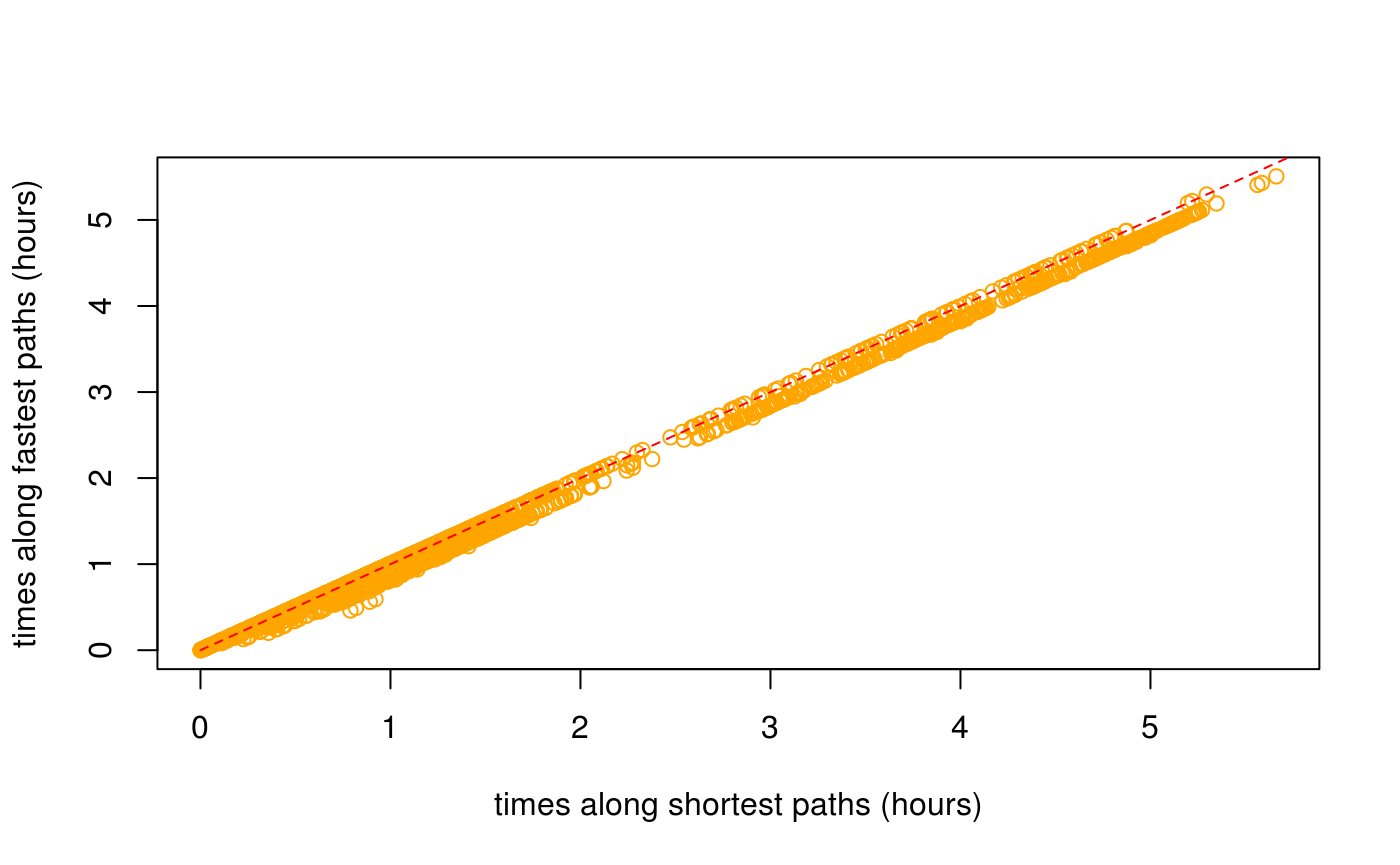
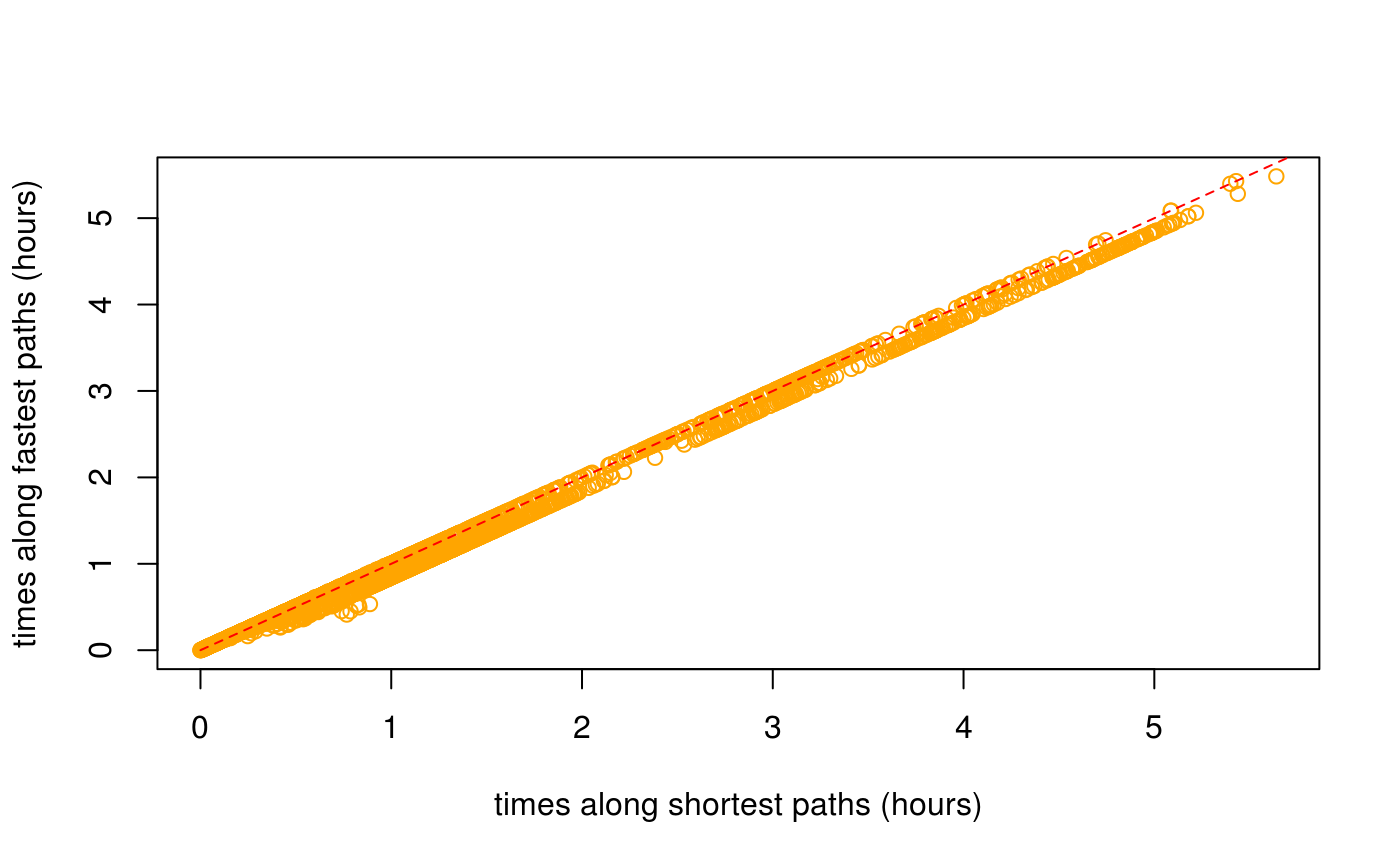
Built site for dodgr: 0.1.4.3@8df6610

diff --git a/articles/dodgr.html b/articles/dodgr.html
@@ -68,7 +68,7 @@
       <h1>dodgr</h1>
                         <h4 class="author">Mark Padgham</h4>
             
-            <h4 class="date">2019-05-25</h4>
+            <h4 class="date">2019-05-26</h4>
       
       <small class="dont-index">Source: <a href="https://github.com/ATFutures/dodgr/blob/master/vignettes/dodgr.Rmd"><code>vignettes/dodgr.Rmd</code></a></small>
       <div class="hidden name"><code>dodgr.Rmd</code></div>
@@ -342,7 +342,7 @@ Figure 2: A <strong>dual</strong>-weighted, directed graph in which the weights 
 <p>The <code>dodgr</code> packages includes a function to select a random connected portion of graph including a specified number of vertices. This function is used in the <code><a href="../reference/compare_heaps.html">compare_heaps()</a></code> function described below, but is also useful for general statistical analyses of large graphs which may otherwise take too long to compute.</p>
 <div class="sourceCode" id="cb59"><pre class="sourceCode r"><code class="sourceCode r"><a class="sourceLine" id="cb59-1" data-line-number="1">graph_sub &lt;-<span class="st"> </span><span class="kw"><a href="../reference/dodgr_sample.html">dodgr_sample</a></span> (graph, <span class="dt">nverts =</span> <span class="dv">100</span>)</a>
 <a class="sourceLine" id="cb59-2" data-line-number="2"><span class="kw"><a href="https://www.rdocumentation.org/packages/base/topics/nrow">nrow</a></span> (graph_sub)</a></code></pre></div>
-<pre><code>## [1] 205</code></pre>
+<pre><code>## [1] 197</code></pre>
 <p>The random sample has around twice as many edges as vertices, in accordance with the statistics calculated above.</p>
 <div class="sourceCode" id="cb61"><pre class="sourceCode r"><code class="sourceCode r"><a class="sourceLine" id="cb61-1" data-line-number="1"><span class="kw"><a href="https://www.rdocumentation.org/packages/base/topics/nrow">nrow</a></span> (<span class="kw"><a href="../reference/dodgr_vertices.html">dodgr_vertices</a></span> (graph_sub))</a></code></pre></div>
 <pre><code>## [1] 100</code></pre>
@@ -419,31 +419,31 @@ Figure 2: A <strong>dual</strong>-weighted, directed graph in which the weights 
 <p>The comparisons are actually made on a randomly selected sub-component of the graph containing a defined number of vertices (with a default of 1,000, or the entire graph if it contains fewer than 1,000 vertices).</p>
 <div class="sourceCode" id="cb77"><pre class="sourceCode r"><code class="sourceCode r"><a class="sourceLine" id="cb77-1" data-line-number="1"><span class="kw"><a href="../reference/compare_heaps.html">compare_heaps</a></span> (graph, <span class="dt">nverts =</span> <span class="dv">100</span>, <span class="dt">replications =</span> <span class="dv">1</span>)</a></code></pre></div>
 <pre><code>##                                                                                   test
-## 6       d &lt;- dodgr_dists(graph_contracted, from = from_id, to = to_id, heap = "BHeap")
-## 7       d &lt;- dodgr_dists(graph_contracted, from = from_id, to = to_id, heap = "FHeap")
 ## 12                  d &lt;- igraph::distances(igr, v = from_id, to = to_id, mode = "out")
-## 1                  d &lt;- dodgr_dists(graph, from = from_id, to = to_id, heap = "BHeap")
+## 2                  d &lt;- dodgr_dists(graph, from = from_id, to = to_id, heap = "FHeap")
 ## 3                d &lt;- dodgr_dists(graph, from = from_id, to = to_id, heap = "TriHeap")
 ## 4             d &lt;- dodgr_dists(graph, from = from_id, to = to_id, heap = "TriHeapExt")
 ## 5                 d &lt;- dodgr_dists(graph, from = from_id, to = to_id, heap = "Heap23")
+## 7       d &lt;- dodgr_dists(graph_contracted, from = from_id, to = to_id, heap = "FHeap")
 ## 8     d &lt;- dodgr_dists(graph_contracted, from = from_id, to = to_id, heap = "TriHeap")
 ## 9  d &lt;- dodgr_dists(graph_contracted, from = from_id, to = to_id, heap = "TriHeapExt")
 ## 10     d &lt;- dodgr_dists(graph_contracted, from = from_id, to = to_id, heap = "Heap23")
 ## 11        d &lt;- dodgr_dists(graph_contracted, from = from_id, to = to_id, heap = "set")
-## 2                  d &lt;- dodgr_dists(graph, from = from_id, to = to_id, heap = "FHeap")
+## 6       d &lt;- dodgr_dists(graph_contracted, from = from_id, to = to_id, heap = "BHeap")
+## 1                  d &lt;- dodgr_dists(graph, from = from_id, to = to_id, heap = "BHeap")
 ##    replications elapsed relative user.self sys.self user.child sys.child
-## 6             1   0.002      1.0     0.000        0          0         0
-## 7             1   0.002      1.0     0.004        0          0         0
-## 12            1   0.002      1.0     0.004        0          0         0
-## 1             1   0.003      1.5     0.004        0          0         0
-## 3             1   0.003      1.5     0.000        0          0         0
-## 4             1   0.003      1.5     0.004        0          0         0
-## 5             1   0.003      1.5     0.004        0          0         0
-## 8             1   0.003      1.5     0.004        0          0         0
-## 9             1   0.003      1.5     0.004        0          0         0
-## 10            1   0.003      1.5     0.004        0          0         0
-## 11            1   0.003      1.5     0.000        0          0         0
-## 2             1   0.004      2.0     0.004        0          0         0</code></pre>
+## 12            1   0.001        1     0.000        0          0         0
+## 2             1   0.002        2     0.004        0          0         0
+## 3             1   0.002        2     0.004        0          0         0
+## 4             1   0.002        2     0.004        0          0         0
+## 5             1   0.002        2     0.004        0          0         0
+## 7             1   0.002        2     0.004        0          0         0
+## 8             1   0.002        2     0.004        0          0         0
+## 9             1   0.002        2     0.004        0          0         0
+## 10            1   0.002        2     0.000        0          0         0
+## 11            1   0.002        2     0.004        0          0         0
+## 6             1   0.003        3     0.004        0          0         0
+## 1             1   0.004        4     0.000        0          0         0</code></pre>
 <p>The key column of that <code>data.frame</code> is <code>relative</code>, which quantifies the relative performance of each test in relation to the best which is given a score of 1. <code>dodgr</code> using the default <code>heap = "BHeap"</code>, which is a binary heap priority queue, performs faster than <code>igraph</code> <span class="citation">(Csardi and Nepusz 2006)</span> for these graphs. Different kind of graphs will perform differently with different priority queue structures, and this function enables users to empirically discern the optimal heap for their kind of graph.</p>
 <p>Note, however, that this is not an entirely fair comparison, because <code>dodgr</code> calculates dual-weighted distances, whereas <code>igraph</code>—and indeed all other <strong>R</strong> packages—only directly calculate distances based on a single set of weights. Implementing dual-weighted routing in these cases requires explicitly re-tracing all paths and summing the second set of weights along each path. A time comparison in that case would be very strongly in favour of <code>dodgr</code>. Moreover, <code>dodgr</code> can convert graphs to contracted form through removing redundant vertices, as detailed in the following section. Doing so greatly improves performance with respect to <code>igraph</code>.</p>
 <p>For those wishing to do explicit comparisons themselves, the following code generates the <code>igraph</code> equivalent of <code><a href="../reference/dodgr_dists.html">dodgr_dists()</a></code>, although of course for single-weighted graphs only:</p>
@@ -496,11 +496,11 @@ Figure 3: <strong>(A)</strong> Vertex#2 is redundant for routing calculations fr
 <pre><code>## [1] 688</code></pre>
 <div class="sourceCode" id="cb89"><pre class="sourceCode r"><code class="sourceCode r"><a class="sourceLine" id="cb89-1" data-line-number="1">verts &lt;-<span class="st"> </span><span class="kw"><a href="https://www.rdocumentation.org/packages/base/topics/sample">sample</a></span> (<span class="kw"><a href="../reference/dodgr_vertices.html">dodgr_vertices</a></span> (graph)<span class="op">$</span>id, <span class="dt">size =</span> <span class="dv">100</span>)</a>
 <a class="sourceLine" id="cb89-2" data-line-number="2"><span class="kw"><a href="https://www.rdocumentation.org/packages/utils/topics/head">head</a></span> (verts) <span class="co"># a character vector</span></a></code></pre></div>
-<pre><code>## [1] "2627476994" "2588155707" "1398748018" "3697938325" "571423784" 
-## [6] "1388481881"</code></pre>
+<pre><code>## [1] "1427115980" "3697938719" "1398747970" "1054865512" "4035136519"
+## [6] "1715805303"</code></pre>
 <div class="sourceCode" id="cb91"><pre class="sourceCode r"><code class="sourceCode r"><a class="sourceLine" id="cb91-1" data-line-number="1">grc &lt;-<span class="st"> </span><span class="kw"><a href="../reference/dodgr_contract_graph.html">dodgr_contract_graph</a></span> (graph, verts)</a>
 <a class="sourceLine" id="cb91-2" data-line-number="2"><span class="kw"><a href="https://www.rdocumentation.org/packages/base/topics/nrow">nrow</a></span> (grc)</a></code></pre></div>
-<pre><code>## [1] 870</code></pre>
+<pre><code>## [1] 876</code></pre>
 <p>Retaining the nominated vertices yields a graph with considerably more edges than the fully contracted graph excluding these vertices. The <code><a href="../reference/dodgr_dists.html">dodgr_dists()</a></code> function can be applied to the latter graph to obtain accurate distances precisely routed between these points, yet using the speed advantages of graph contraction.</p>
 </div>
 </div>
@@ -541,33 +541,41 @@ Figure 3: <strong>(A)</strong> Vertex#2 is redundant for routing calculations fr
 <pre><code>## [1] 10</code></pre>
 <p>The result (<code>dp</code>) is a list of 10 items, each of which contains 5 vectors. An example is,</p>
 <div class="sourceCode" id="cb98"><pre class="sourceCode r"><code class="sourceCode r"><a class="sourceLine" id="cb98-1" data-line-number="1">dp [[<span class="dv">1</span>]] [[<span class="dv">1</span>]]</a></code></pre></div>
-<pre><code>##  [1] "4337842201" "4337842200" "4337842204" "4337842205" "4337842203"
-##  [6] "3697937581" "3697937593" "3697937592" "3697937600" "3697937594"
-## [11] "3697937577" "3697937580" "3697937590" "3697937576" "2398957877"
-## [16] "2398957874" "980400526"  "980400777"  "980400432"  "2398957870"
-## [21] "2398957868" "980400561"  "2398957861" "980400400"  "2398957857"
-## [26] "980400945"  "2398957852" "2398957853" "2398957855" "2398957859"
-## [31] "2398957858" "980400836"  "2398957860" "980400706"  "2398957866"
-## [36] "980400446"  "2398957876" "2398957878" "980400323"  "286632902" 
-## [41] "339574320"  "2398957885" "2398957883" "286632901"  "1148815150"
-## [46] "676875132"  "2398957865" "286632900"  "1148814896" "338908589" 
-## [51] "2398957843" "338904455"  "1054862659" "2398957839" "1148814749"
-## [56] "2398957836" "1148815271" "2398957833" "1054866750" "2398957830"
-## [61] "338904628"  "2398957829" "2398957827" "1148815092" "338904630" 
-## [66] "2398957824" "338904633"  "2398957822" "2398957821" "1054865512"
-## [71] "2398957817" "4035136525" "4035136524" "4035136523" "4035136522"
-## [76] "4035136521" "4035136520" "4035136519"</code></pre>
+<pre><code>##   [1] "1376768842" "2398957896" "2398957895" "1128374434" "1376768821"
+##   [6] "677638770"  "1376768479" "1376769040" "2398957837" "2398957826"
+##  [11] "1128374394" "2398957816" "1376768691" "977461235"  "1128374418"
+##  [16] "1376768409" "1376768986" "245631194"  "1376768627" "1128374362"
+##  [21] "676875279"  "1357430213" "1161117548" "1128374360" "1376769220"
+##  [26] "1376768749" "1357430014" "1376768380" "676875276"  "1376768957"
+##  [31] "1357430113" "1376768597" "1376768325" "1161117723" "1376768899"
+##  [36] "1161117735" "1376768537" "676875308"  "1376769132" "1128374447"
+##  [41] "1376768650" "1376768293" "676875274"  "1376768867" "1161117304"
+##  [46] "1376768504" "1128374467" "1128374373" "1128374412" "1376769190"
+##  [51] "1128374442" "676875269"  "245631169"  "1376768805" "2398957722"
+##  [56] "313796425"  "2398957720" "1376769010" "2398957713" "1376768565"
+##  [61] "2398957701" "2398957696" "1128374495" "313796426"  "1128374399"
+##  [66] "313796427"  "313796428"  "2398957603" "313796429"  "1427594112"
+##  [71] "1376769158" "313796430"  "313796431"  "2398957567" "2398957563"
+##  [76] "3338186986" "313796432"  "2398957555" "2398957554" "1376768773"
+##  [81] "313796433"  "2419196948" "2398957539" "676875267"  "2398957521"
+##  [86] "2398957526" "2398957532" "2398957537" "676635860"  "2398957542"
+##  [91] "2398957543" "2398957544" "2398957546" "338905245"  "2398957549"
+##  [96] "2398957557" "2398957561" "338905227"  "2398957564" "338905221" 
+## [101] "2398957568" "2398957570" "2398957571" "1427594104" "2398957576"
+## [106] "338905220"  "2398957584" "1376769086" "1376768510" "2398957588"
+## [111] "2398957589" "338905219"  "1376768779" "1376769164" "338905128" 
+## [116] "1427115955" "339574628"  "2398957619"</code></pre>
 <p>For spatial graphs, the coordinates of these paths can be obtained by extracting the vertices with <code><a href="../reference/dodgr_vertices.html">dodgr_vertices()</a></code> and matching the vertex IDs:</p>
 <div class="sourceCode" id="cb100"><pre class="sourceCode r"><code class="sourceCode r"><a class="sourceLine" id="cb100-1" data-line-number="1">verts &lt;-<span class="st"> </span><span class="kw"><a href="../reference/dodgr_vertices.html">dodgr_vertices</a></span> (graph)</a>
 <a class="sourceLine" id="cb100-2" data-line-number="2">path1 &lt;-<span class="st"> </span>verts [<span class="kw"><a href="https://www.rdocumentation.org/packages/base/topics/match">match</a></span> (dp [[<span class="dv">1</span>]] [[<span class="dv">1</span>]], verts<span class="op">$</span>id), ]</a>
 <a class="sourceLine" id="cb100-3" data-line-number="3"><span class="kw"><a href="https://www.rdocumentation.org/packages/utils/topics/head">head</a></span> (path1)</a></code></pre></div>
-<pre><code>##              id        x        y component    n
-## 5628 4337842201 76.46829 15.33195         1 2759
-## 5630 4337842200 76.46828 15.33194         1 2760
-## 5632 4337842204 76.46822 15.33198         1 2761
-## 5634 4337842205 76.46821 15.33200         1 2762
-## 4938 4337842203 76.46820 15.33197         1 2435
-## 4936 3697937581 76.46816 15.33199         1 2434</code></pre>
+<pre><code>##             id        x        y component   n
+## 864 1376768842 76.51784 15.33326         1 443
+## 862 2398957896 76.51776 15.33310         1 442
+## 860 2398957895 76.51768 15.33297         1 441
+## 858 1128374434 76.51753 15.33283         1 440
+## 856 1376768821 76.51685 15.33227         1 439
+## 854  677638770 76.51651 15.33197         1 438</code></pre>
 <p>Paths calculated on contracted graphs will of course have fewer vertices than those calculated on full graphs.</p>
 </div>
 <div id="aggregated-flows" class="section level1">
@@ -611,7 +619,7 @@ Figure 3: <strong>(A)</strong> Vertex#2 is redundant for routing calculations fr
 <p>Most flows are zero because they have only been calculated between very few points in the graph.</p>
 <div class="sourceCode" id="cb105"><pre class="sourceCode r"><code class="sourceCode r"><a class="sourceLine" id="cb105-1" data-line-number="1"><span class="kw"><a href="https://www.rdocumentation.org/packages/base/topics/summary">summary</a></span> (graph_f<span class="op">$</span>flow)</a></code></pre></div>
 <pre><code>##    Min. 1st Qu.  Median    Mean 3rd Qu.    Max. 
-##   0.000   0.000   0.000   6.140   2.707  86.874</code></pre>
+##   0.000   0.000   0.000   4.017   0.000  77.517</code></pre>
 </div>
 <div id="flow-dispersal" class="section level2">
 <h2 class="hasAnchor">
@@ -621,7 +629,7 @@ Figure 3: <strong>(A)</strong> Vertex#2 is redundant for routing calculations fr
 <a class="sourceLine" id="cb107-2" data-line-number="2">graph_f &lt;-<span class="st"> </span><span class="kw"><a href="../reference/dodgr_flows_disperse.html">dodgr_flows_disperse</a></span> (graph, <span class="dt">from =</span> from, <span class="dt">dens =</span> dens)</a>
 <a class="sourceLine" id="cb107-3" data-line-number="3"><span class="kw"><a href="https://www.rdocumentation.org/packages/base/topics/summary">summary</a></span> (graph_f<span class="op">$</span>flow)</a></code></pre></div>
 <pre><code>##      Min.   1st Qu.    Median      Mean   3rd Qu.      Max. 
-## 0.000e+00 0.000e+00 0.000e+00 1.479e-05 0.000e+00 6.832e-02</code></pre>
+## 0.0000000 0.0000000 0.0000000 0.0001483 0.0000000 0.3927081</code></pre>
 </div>
 <div id="merging-directed-flows" class="section level2">
 <h2 class="hasAnchor">
@@ -631,7 +639,7 @@ Figure 3: <strong>(A)</strong> Vertex#2 is redundant for routing calculations fr
 <p>Resultant graphs produced by <code><a href="../reference/merge_directed_flows.html">merge_directed_flows()</a></code> only include those edges having non-zero flows, and so:</p>
 <div class="sourceCode" id="cb110"><pre class="sourceCode r"><code class="sourceCode r"><a class="sourceLine" id="cb110-1" data-line-number="1"><span class="kw"><a href="https://www.rdocumentation.org/packages/base/topics/nrow">nrow</a></span> (graph_f); <span class="kw"><a href="https://www.rdocumentation.org/packages/base/topics/nrow">nrow</a></span> (graph_undir) <span class="co"># the latter is much smaller</span></a></code></pre></div>
 <pre><code>## [1] 5845</code></pre>
-<pre><code>## [1] 2190</code></pre>
+<pre><code>## [1] 1718</code></pre>
 <p>The resultant graph can readily be merged with the original graph to regain the original data on vertex coordinates through</p>
 <div class="sourceCode" id="cb113"><pre class="sourceCode r"><code class="sourceCode r"><a class="sourceLine" id="cb113-1" data-line-number="1">graph &lt;-<span class="st"> </span>graph [graph_undir<span class="op">$</span>edge_id, ]</a>
 <a class="sourceLine" id="cb113-2" data-line-number="2">graph<span class="op">$</span>flow &lt;-<span class="st"> </span>graph_undir<span class="op">$</span>flow</a></code></pre></div>

diff --git a/articles/times.html b/articles/times.html
@@ -68,7 +68,7 @@
       <h1>Street networks and time-based routing</h1>
                         <h4 class="author">Mark Padgham</h4>
             
-            <h4 class="date">2019-05-25</h4>
+            <h4 class="date">2019-05-26</h4>
       
       <small class="dont-index">Source: <a href="https://github.com/ATFutures/dodgr/blob/master/vignettes/times.Rmd"><code>vignettes/times.Rmd</code></a></small>
       <div class="hidden name"><code>times.Rmd</code></div>
@@ -233,11 +233,11 @@ Figure 1: Graph modification to account for turn angles, which introduces the ad
 <p><img src="times_files/figure-html/shortest-vs-fastest-1.png" width="700"></p>
 <p>The average distance between the two (in metres) is:</p>
 <div class="sourceCode" id="cb11"><pre class="sourceCode r"><code class="sourceCode r"><a class="sourceLine" id="cb11-1" data-line-number="1"><span class="kw"><a href="https://www.rdocumentation.org/packages/base/topics/mean">mean</a></span> (<span class="kw"><a href="https://www.rdocumentation.org/packages/base/topics/MathFun">abs</a></span> (d_time <span class="op">-</span><span class="st"> </span>d_dist), <span class="dt">na.rm =</span> <span class="ot">TRUE</span>)</a></code></pre></div>
-<pre><code>## [1] 29.82826</code></pre>
+<pre><code>## [1] 27.87095</code></pre>
 <p>The plot reveals that shortest distances are indeed somewhat shorter than distances along fastest paths, but also that some fastest paths are actually shorter than shortest paths:</p>
 <div class="sourceCode" id="cb13"><pre class="sourceCode r"><code class="sourceCode r"><a class="sourceLine" id="cb13-1" data-line-number="1">index &lt;-<span class="st"> </span><span class="kw"><a href="https://www.rdocumentation.org/packages/base/topics/which">which</a></span> (<span class="op">!</span><span class="kw"><a href="https://www.rdocumentation.org/packages/base/topics/NA">is.na</a></span> (d_time) <span class="op">&amp;</span><span class="st"> </span><span class="op">!</span><span class="kw"><a href="https://www.rdocumentation.org/packages/base/topics/NA">is.na</a></span> (d_dist))</a>
 <a class="sourceLine" id="cb13-2" data-line-number="2"><span class="kw"><a href="https://www.rdocumentation.org/packages/base/topics/length">length</a></span> (<span class="kw"><a href="https://www.rdocumentation.org/packages/base/topics/which">which</a></span> (d_time [index] <span class="op">&lt;</span><span class="st"> </span>d_dist [index])) <span class="op">/</span><span class="st"> </span><span class="kw"><a href="https://www.rdocumentation.org/packages/base/topics/length">length</a></span> (index)</a></code></pre></div>
-<pre><code>## [1] 0.01698797</code></pre>
+<pre><code>## [1] 0.006073259</code></pre>
 <p>While <code>dodgr</code> and indeed all routing engines attempt to maximally reconcile differences between fastest and shortest routes, there nevertheless remain important discrepancies. Foremost among these, and the primary reason why some fastest routes may in fact be shorter than shortest routes, is that fastest routes allocate preferences for different kinds of way based both on the <code>value</code> column in the <code>weighting_profiles$weighting_profiles</code> table illustrated above, and on the actual maximum speed of a given edge, which itself may be a combination of maximum speeds as specified in OSM itself, maximum speeds from the <code>weighting_profiles$weighting_profiles</code> table, or values specific to a given surface. The result is that some unique combination of maximum speeds along a network may lead to <em>fastest</em> routes being preferentially directed along a path that is actually shorter than the direct shortest path which is calculated independent of maximum speed values.</p>
 <p>Such discrepancies are important in understanding differences in routes <em>times</em> calculated along shortest versus fastest paths. These times can be calculated (in seconds) with the <a href="https://atfutures.github.io/dodgr/reference/dodgr_times.html"><code><a href="../reference/dodgr_times.html">dodgr_times()</a></code></a> function:</p>
 <div class="sourceCode" id="cb15"><pre class="sourceCode r"><code class="sourceCode r"><a class="sourceLine" id="cb15-1" data-line-number="1">t_dist &lt;-<span class="st"> </span><span class="kw"><a href="../reference/dodgr_times.html">dodgr_times</a></span> (graph, <span class="dt">from =</span> from, <span class="dt">to =</span> to, <span class="dt">shortest =</span> <span class="ot">TRUE</span>) <span class="co"># default</span></a>
@@ -248,11 +248,11 @@ Figure 1: Graph modification to account for turn angles, which introduces the ad
 <a class="sourceLine" id="cb15-6" data-line-number="6"><span class="kw"><a href="https://www.rdocumentation.org/packages/graphics/topics/lines">lines</a></span> (<span class="dv">0</span><span class="op">:</span><span class="dv">100</span>, <span class="dv">0</span><span class="op">:</span><span class="dv">100</span>, <span class="dt">col =</span> <span class="st">"red"</span>, <span class="dt">lty =</span> <span class="dv">2</span>)</a></code></pre></div>
 <p><img src="times_files/figure-html/shortest-vs-fastest-times-1.png" width="700"></p>
 <div class="sourceCode" id="cb16"><pre class="sourceCode r"><code class="sourceCode r"><a class="sourceLine" id="cb16-1" data-line-number="1"><span class="kw"><a href="https://www.rdocumentation.org/packages/base/topics/mean">mean</a></span> (<span class="kw"><a href="https://www.rdocumentation.org/packages/base/topics/MathFun">abs</a></span> (t_time <span class="op">-</span><span class="st"> </span>t_dist), <span class="dt">na.rm =</span> <span class="ot">TRUE</span>)</a></code></pre></div>
-<pre><code>## [1] 105.1277</code></pre>
+<pre><code>## [1] 109.3887</code></pre>
 <p>As above, times along fastest paths are generally less than times along shortest paths, although there are again a few exceptions:</p>
 <div class="sourceCode" id="cb18"><pre class="sourceCode r"><code class="sourceCode r"><a class="sourceLine" id="cb18-1" data-line-number="1">index &lt;-<span class="st"> </span><span class="kw"><a href="https://www.rdocumentation.org/packages/base/topics/which">which</a></span> (<span class="op">!</span><span class="kw"><a href="https://www.rdocumentation.org/packages/base/topics/NA">is.na</a></span> (t_time) <span class="op">&amp;</span><span class="st"> </span><span class="op">!</span><span class="kw"><a href="https://www.rdocumentation.org/packages/base/topics/NA">is.na</a></span> (t_dist))</a>
 <a class="sourceLine" id="cb18-2" data-line-number="2"><span class="kw"><a href="https://www.rdocumentation.org/packages/base/topics/length">length</a></span> (<span class="kw"><a href="https://www.rdocumentation.org/packages/base/topics/which">which</a></span> (t_dist [index] <span class="op">&lt;</span><span class="st"> </span>t_time [index])) <span class="op">/</span><span class="st"> </span><span class="kw"><a href="https://www.rdocumentation.org/packages/base/topics/length">length</a></span> (index)</a></code></pre></div>
-<pre><code>## [1] 0.0127887</code></pre>
+<pre><code>## [1] 0.01290567</code></pre>
 <p>These results demonstrate how the combination of the <a href="https://atfutures.github.io/dodgr/reference/dodgr_distances.html"><code><a href="../reference/dodgr_distances.html">dodgr_distances()</a></code></a> and <a href="https://atfutures.github.io/dodgr/reference/dodgr_times.html"><code><a href="../reference/dodgr_times.html">dodgr_times()</a></code></a> functions enable calculation of both distances and times along both shortest and fastest paths.</p>
 <div id="time-based-paths-and-flow-aggregation" class="section level2">
 <h2 class="hasAnchor">

diff --git a/articles/benchmark.html b/articles/benchmark.html
@@ -68,7 +68,7 @@
       <h1>dodgr benchmark</h1>
                         <h4 class="author">Andreas Petutschnig</h4>
             
-            <h4 class="date">2019-05-25</h4>
+            <h4 class="date">2019-05-26</h4>
       
       <small class="dont-index">Source: <a href="https://github.com/ATFutures/dodgr/blob/master/vignettes/benchmark.Rmd"><code>vignettes/benchmark.Rmd</code></a></small>
       <div class="hidden name"><code>benchmark.Rmd</code></div>
@@ -122,37 +122,37 @@
 <a class="sourceLine" id="cb2-2" data-line-number="2">num_vertices &lt;-<span class="st"> </span><span class="kw"><a href="https://www.rdocumentation.org/packages/base/topics/unlist">unlist</a></span> (<span class="kw"><a href="https://www.rdocumentation.org/packages/base/topics/lapply">lapply</a></span> (all_graphs, <span class="cf">function</span> (i)</a>
 <a class="sourceLine" id="cb2-3" data-line-number="3">                                <span class="kw"><a href="https://www.rdocumentation.org/packages/base/topics/nrow">nrow</a></span> (<span class="kw"><a href="../reference/dodgr_vertices.html">dodgr_vertices</a></span> (i))))</a>
 <a class="sourceLine" id="cb2-4" data-line-number="4"><span class="kw"><a href="https://www.rdocumentation.org/packages/base/topics/data.frame">data.frame</a></span> (num_edges, num_vertices, <span class="dt">ratio =</span> num_edges <span class="op">/</span><span class="st"> </span>num_vertices)</a></code></pre></div>
-<pre><code>##    num_edges num_vertices      ratio
-## 1          7            4   1.750000
-## 2        817           81  10.086420
-## 3      23473          755  31.090066
-## 4     125409          184 681.570652
-## 5        178           37   4.810811
-## 6        209           37   5.648649
-## 7        215           37   5.810811
-## 8        177           39   4.538462
-## 9        125           24   5.208333
-## 10       100           24   4.166667
-## 11        82           24   3.416667
-## 12       221           39   5.666667
-## 13       400           46   8.695652
-## 14       220           35   6.285714
-## 15        53           19   2.789474
-## 16       356           54   6.592593
-## 17      2137          128  16.695312
-## 18      2106          128  16.453125
-## 19       640           71   9.014085
-## 20       631           71   8.887324
-## 21       915           69  13.260870
-## 22       916           69  13.275362
-## 23      1491           97  15.371134
-## 24      1492           97  15.381443
-## 25      6300         1316   4.787234
-## 26        78           34   2.294118
-## 27        18           10   1.800000
-## 28       463           45  10.288889
-## 29     32424           75 432.320000
-## 30     11855         2617   4.529996</code></pre>
+<pre><code>##    num_edges num_vertices    ratio
+## 1          7            4     1.75
+## 2        817            4   204.25
+## 3      23473            4  5868.25
+## 4     125409            4 31352.25
+## 5        178            4    44.50
+## 6        209            4    52.25
+## 7        215            4    53.75
+## 8        177            4    44.25
+## 9        125            4    31.25
+## 10       100            4    25.00
+## 11        82            4    20.50
+## 12       221            4    55.25
+## 13       400            4   100.00
+## 14       220            4    55.00
+## 15        53            4    13.25
+## 16       356            4    89.00
+## 17      2137            4   534.25
+## 18      2106            4   526.50
+## 19       640            4   160.00
+## 20       631            4   157.75
+## 21       915            4   228.75
+## 22       916            4   229.00
+## 23      1491            4   372.75
+## 24      1492            4   373.00
+## 25      6300            4  1575.00
+## 26        78            4    19.50
+## 27        18            4     4.50
+## 28       463            4   115.75
+## 29     32424            4  8106.00
+## 30     11855            4  2963.75</code></pre>
 <div class="sourceCode" id="cb4"><pre class="sourceCode r"><code class="sourceCode r"><a class="sourceLine" id="cb4-1" data-line-number="1">benchmarks &lt;-<span class="st"> </span><span class="kw"><a href="https://www.rdocumentation.org/packages/base/topics/lapply">lapply</a></span> (all_graphs, <span class="cf">function</span> (i)</a>
 <a class="sourceLine" id="cb4-2" data-line-number="2">                      <span class="kw"><a href="../reference/compare_heaps.html">compare_heaps</a></span> (i, <span class="dt">nverts =</span> <span class="dv">100</span>, <span class="dt">replications =</span> <span class="dv">10</span>))</a>
 <a class="sourceLine" id="cb4-3" data-line-number="3"><span class="kw"><a href="https://www.rdocumentation.org/packages/base/topics/readRDS">saveRDS</a></span> (benchmarks, <span class="dt">file =</span> <span class="st">"benchmark_data.rds"</span>)</a></code></pre></div>

diff --git a/reference/compare_heaps.html b/reference/compare_heaps.html
@@ -157,27 +157,27 @@ fair comparisons, run only once or re-start the current R session.</p>
 #&gt; 6       d &lt;- dodgr_dists(graph_contracted, from = from_id, to = to_id, heap = "BHeap")
 #&gt; 11        d &lt;- dodgr_dists(graph_contracted, from = from_id, to = to_id, heap = "set")
 #&gt; 7       d &lt;- dodgr_dists(graph_contracted, from = from_id, to = to_id, heap = "FHeap")
+#&gt; 10     d &lt;- dodgr_dists(graph_contracted, from = from_id, to = to_id, heap = "Heap23")
 #&gt; 8     d &lt;- dodgr_dists(graph_contracted, from = from_id, to = to_id, heap = "TriHeap")
 #&gt; 9  d &lt;- dodgr_dists(graph_contracted, from = from_id, to = to_id, heap = "TriHeapExt")
-#&gt; 10     d &lt;- dodgr_dists(graph_contracted, from = from_id, to = to_id, heap = "Heap23")
 #&gt; 12                  d &lt;- igraph::distances(igr, v = from_id, to = to_id, mode = "out")
 #&gt; 1                  d &lt;- dodgr_dists(graph, from = from_id, to = to_id, heap = "BHeap")
-#&gt; 2                  d &lt;- dodgr_dists(graph, from = from_id, to = to_id, heap = "FHeap")
-#&gt; 5                 d &lt;- dodgr_dists(graph, from = from_id, to = to_id, heap = "Heap23")
 #&gt; 3                d &lt;- dodgr_dists(graph, from = from_id, to = to_id, heap = "TriHeap")
+#&gt; 5                 d &lt;- dodgr_dists(graph, from = from_id, to = to_id, heap = "Heap23")
+#&gt; 2                  d &lt;- dodgr_dists(graph, from = from_id, to = to_id, heap = "FHeap")
 #&gt; 4             d &lt;- dodgr_dists(graph, from = from_id, to = to_id, heap = "TriHeapExt")
 #&gt;    replications elapsed relative user.self sys.self user.child sys.child
-#&gt; 6             1   0.009    1.000     0.016    0.000          0         0
-#&gt; 11            1   0.010    1.111     0.016    0.000          0         0
-#&gt; 7             1   0.012    1.333     0.016    0.000          0         0
+#&gt; 6             1   0.009    1.000     0.008    0.004          0         0
+#&gt; 11            1   0.009    1.000     0.016    0.000          0         0
+#&gt; 7             1   0.011    1.222     0.016    0.000          0         0
+#&gt; 10            1   0.011    1.222     0.020    0.000          0         0
 #&gt; 8             1   0.012    1.333     0.020    0.000          0         0
-#&gt; 9             1   0.012    1.333     0.012    0.000          0         0
-#&gt; 10            1   0.012    1.333     0.020    0.000          0         0
-#&gt; 12            1   0.023    2.556     0.024    0.000          0         0
+#&gt; 9             1   0.012    1.333     0.016    0.000          0         0
+#&gt; 12            1   0.023    2.556     0.020    0.000          0         0
 #&gt; 1             1   0.036    4.000     0.060    0.000          0         0
-#&gt; 2             1   0.048    5.333     0.084    0.000          0         0
-#&gt; 5             1   0.049    5.444     0.092    0.000          0         0
-#&gt; 3             1   0.050    5.556     0.084    0.004          0         0
+#&gt; 3             1   0.050    5.556     0.088    0.000          0         0
+#&gt; 5             1   0.050    5.556     0.088    0.000          0         0
+#&gt; 2             1   0.053    5.889     0.096    0.000          0         0
 #&gt; 4             1   0.055    6.111     0.052    0.000          0         0</div></pre>
   </div>
   <div class="col-md-3 hidden-xs hidden-sm" id="sidebar">

diff --git a/reference/dodgr_sample.html b/reference/dodgr_sample.html
@@ -141,7 +141,7 @@ the requested <code>nverts</code>.</p>
     <h2 class="hasAnchor" id="examples"><a class="anchor" href="#examples"></a>Examples</h2>
     <pre class="examples"><div class='input'><span class='no'>graph</span> <span class='kw'>&lt;-</span> <span class='fu'><a href='weight_streetnet.html'>weight_streetnet</a></span> (<span class='no'>hampi</span>)
 <span class='fu'><a href='https://www.rdocumentation.org/packages/base/topics/nrow'>nrow</a></span> (<span class='no'>graph</span>) <span class='co'># 5,742</span></div><div class='output co'>#&gt; [1] 5845</div><div class='input'><span class='no'>graph</span> <span class='kw'>&lt;-</span> <span class='fu'>dodgr_sample</span> (<span class='no'>graph</span>, <span class='kw'>nverts</span> <span class='kw'>=</span> <span class='fl'>200</span>)
-<span class='fu'><a href='https://www.rdocumentation.org/packages/base/topics/nrow'>nrow</a></span> (<span class='no'>graph</span>) <span class='co'># generally around 400 edges</span></div><div class='output co'>#&gt; [1] 401</div><div class='input'><span class='fu'><a href='https://www.rdocumentation.org/packages/base/topics/nrow'>nrow</a></span> (<span class='fu'><a href='dodgr_vertices.html'>dodgr_vertices</a></span> (<span class='no'>graph</span>)) <span class='co'># 200</span></div><div class='output co'>#&gt; [1] 200</div></pre>
+<span class='fu'><a href='https://www.rdocumentation.org/packages/base/topics/nrow'>nrow</a></span> (<span class='no'>graph</span>) <span class='co'># generally around 400 edges</span></div><div class='output co'>#&gt; [1] 426</div><div class='input'><span class='fu'><a href='https://www.rdocumentation.org/packages/base/topics/nrow'>nrow</a></span> (<span class='fu'><a href='dodgr_vertices.html'>dodgr_vertices</a></span> (<span class='no'>graph</span>)) <span class='co'># 200</span></div><div class='output co'>#&gt; [1] 200</div></pre>
   </div>
   <div class="col-md-3 hidden-xs hidden-sm" id="sidebar">
     <h2>Contents</h2>

diff --git a/index.html b/index.html
@@ -511,7 +511,7 @@
 <td align="right">1</td>
 <td align="right">95.358362</td>
 <td align="right">105.953735</td>
-<td align="right">30.66289</td>
+<td align="right">40.96377</td>
 </tr>
 <tr class="even">
 <td align="right">1</td>
@@ -529,7 +529,7 @@
 <td align="right">1</td>
 <td align="right">95.358362</td>
 <td align="right">105.953735</td>
-<td align="right">71.48203</td>
+<td align="right">0.00000</td>
 </tr>
 <tr class="odd">
 <td align="right">1</td>
@@ -547,7 +547,7 @@
 <td align="right">1</td>
 <td align="right">6.399843</td>
 <td align="right">7.110936</td>
-<td align="right">30.66289</td>
+<td align="right">40.96377</td>
 </tr>
 <tr class="even">
 <td align="right">1</td>
@@ -565,7 +565,7 @@
 <td align="right">1</td>
 <td align="right">6.399843</td>
 <td align="right">7.110936</td>
-<td align="right">71.48203</td>
+<td align="right">0.00000</td>
 </tr>
 <tr class="odd">
 <td align="right">1</td>
@@ -583,7 +583,7 @@
 <td align="right">1</td>
 <td align="right">6.715106</td>
 <td align="right">7.461229</td>
-<td align="right">30.66289</td>
+<td align="right">40.96377</td>
 </tr>
 <tr class="even">
 <td align="right">1</td>
@@ -601,7 +601,7 @@
 <td align="right">1</td>
 <td align="right">6.715106</td>
 <td align="right">7.461229</td>
-<td align="right">71.48203</td>
+<td align="right">0.00000</td>
 </tr>
 </tbody>
 </table>
